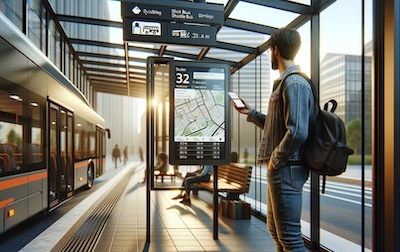
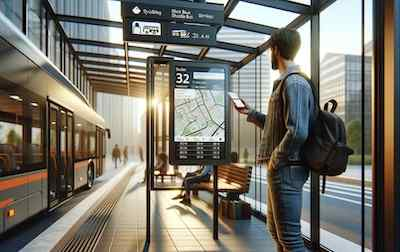
change pic format

diff --git a/_publications/traffic-pipeline.md b/_publications/traffic-pipeline.md
@@ -4,7 +4,7 @@ sitemap: false
 title: "Deep learning approach for realistic traffic video changes across lighting and weather conditions"
 authors: Alam, M. S., Parmar, S. H., Martens, M. H., Bazilinskyy, P.
 pdf: traffic-pipeline
-image: traffic-pipeline.png
+image: traffic-pipeline.jpg
 display: "8th International Conference on Information and Computer Technologies (ICICT). Hilo, HI, USA"
 year: 2025
 doi:

diff --git a/_publications/sanjeev2023.md b/_publications/sanjeev2023.md
@@ -4,7 +4,7 @@ sitemap: false
 title: "Comparison of path following in ships using modern and traditional controllers"
 authors: Sanjeev Kumar, R. S., Alam, M. S., Reddy, B., & Somayajula, A.S.
 pdf: sanjeev2023
-image: sanjeev2023.png
+image: sanjeev2023.jpg
 display: Proceedings of the Sixth International Conference in Ocean Engineering (ICOE2023)
 year: 2023
 doi: 10.48550/arXiv.2310.14940

diff --git a/_publications/joel2023navig.md b/_publications/joel2023navig.md
@@ -4,7 +4,7 @@ sitemap: false
 title: "Navigating the Ocean with DRL: Path following for marine vessels"
 authors: Jose, J., & Alam, M. S., & Somayajula, A.S.
 pdf: joel2023navig
-image: joel2023navig.png
+image: joel2023navig.jpg
 display: Proceedings of the Sixth International Conference in Ocean Engineering (ICOE2023)
 year: 2023
 doi: 10.48550/arXiv.2310.14932

diff --git a/_publications/alam2023ai.md b/_publications/alam2023ai.md
@@ -4,7 +4,7 @@ sitemap: false
 title: "AI on the water: Applying drl to autonomous vessel navigation"
 authors: Alam, M. S.,Sanjeev Kumar, R.S., & Somayajula, A.
 pdf: alam2023ai
-image: alam2023ai.png
+image: alam2023ai.jpg
 display: Proceedings of the Sixth International Conference in Ocean Engineering (ICOE2023)
 year: 2023
 doi: 10.48550/arXiv.2310.14938

diff --git a/_publications/alam2024crossing.md b/_publications/alam2024crossing.md
@@ -4,7 +4,7 @@ sitemap: false
 title: "Understanding global pedestrian behaviour in 565 cities with dashcam videos on YouTube"
 authors: Alam, M. S., Martens, M., Bazilinska, O., Bazilinskyy, P.
 pdf: alam2024crossing
-image: alam2024crossing.png
+image: alam2024crossing.jpg
 display: In preparation.
 year: 
 doi: 

diff --git a/_publications/alam2025national.md b/_publications/alam2025national.md
@@ -4,7 +4,7 @@ sitemap: false
 title: "Pedestrian Planet: What 1,609 Hours of YouTube Driving from 133 Countries Teaches Us About the World"
 authors: Alam, M. S., Martens, M.H., & Bazilinskyy, P.
 pdf: alam2025national
-image: alam2025national.png
+image: alam2025national.jpg
 display: Submitted
 year: 2025
 doi:

diff --git a/_publications/masterthesis.md b/_publications/masterthesis.md
@@ -4,7 +4,7 @@ sitemap: false
 title: "Data Driven Control for marine vehicle maneuvering"
 authors: Alam, M. S. 
 pdf: masterthesis
-image: masterthesis.png
+image: masterthesis.jpg
 # display: Journal of Marine Engineering & Technology
 year: 2023
 doi: 10.13140/RG.2.2.16194.15045

diff --git a/_publications/alam2025GPT.md b/_publications/alam2025GPT.md
@@ -4,7 +4,7 @@ sitemap: false
 title: "Cross or Nah? LLMs Get in the Mindset of a Pedestrian in front of Automated Car with an eHMI"
 authors: Alam, M. S., & Bazilinskyy, P.
 pdf: alam2025GPT
-image: alam2025GPT.png
+image: alam2025GPT.jpg
 display: Submitted
 year: 2025
 doi: 

diff --git a/_publications/Zeng_emotion.md b/_publications/Zeng_emotion.md
@@ -4,7 +4,7 @@ sitemap: false
 title: "Robot-like In-vehicle Agent for a Level 3 Automated Vehicle with Emotions"
 authors: Zeng, X., Alam, M. S., Bazilinskyy, P.
 pdf: zeng_emotion
-image: zeng_emotion.png
+image: zeng_emotion.jpg
 display: Submitted
 year: 2025
 doi:
